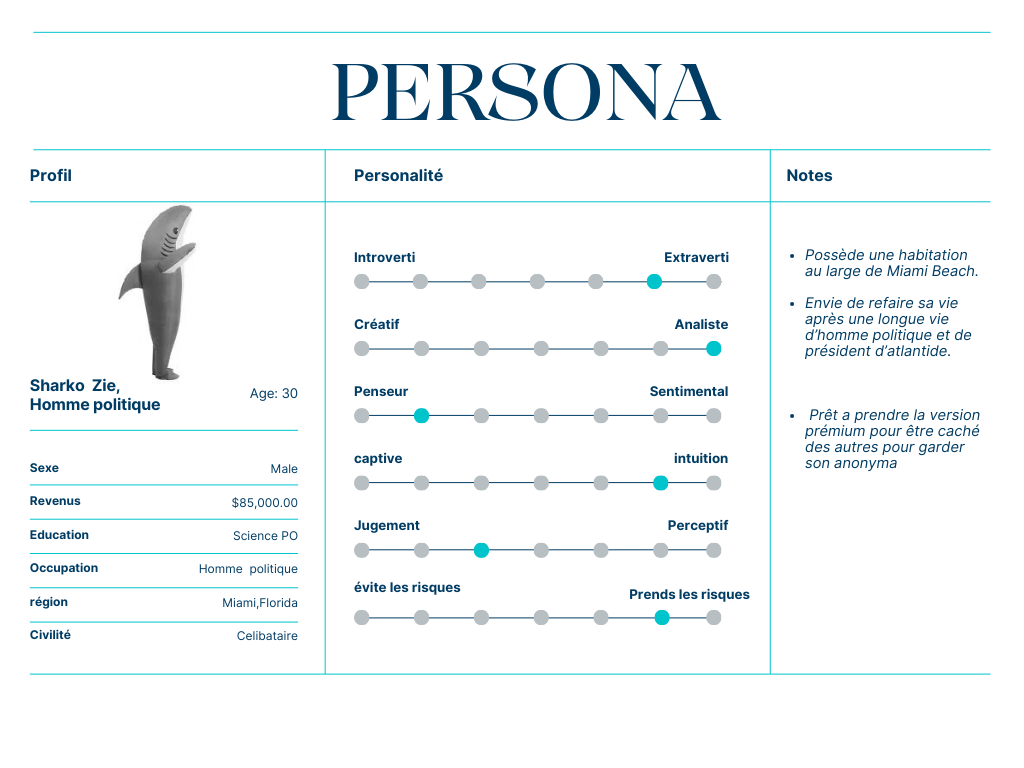
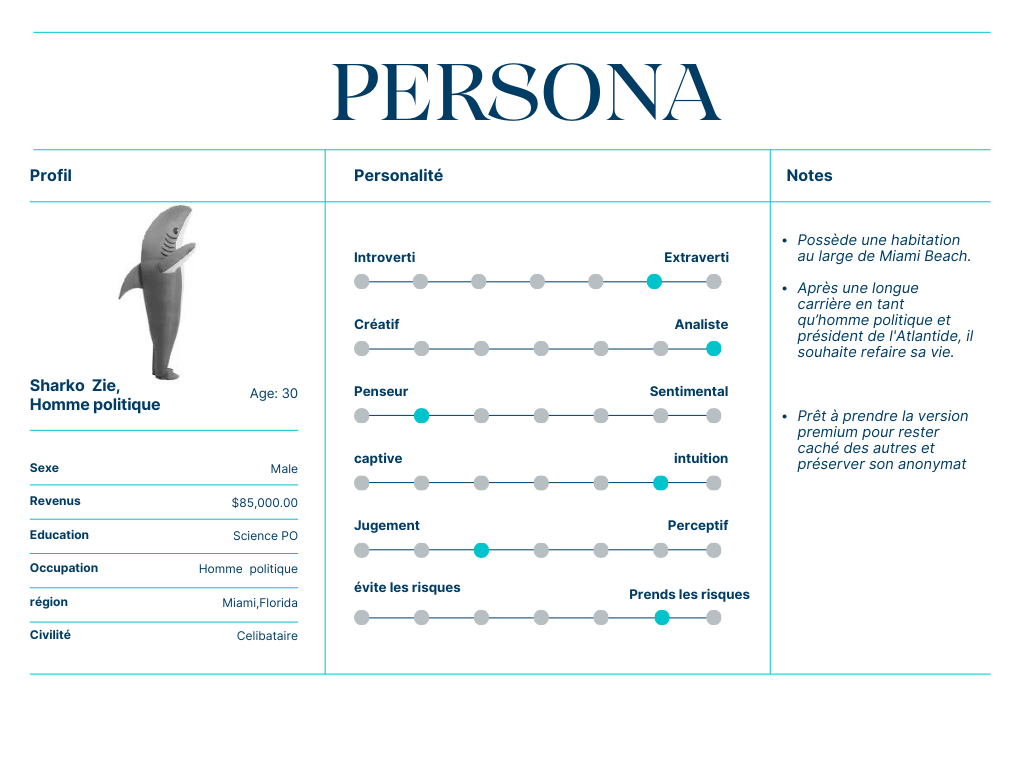
Update rapport_visu and Personna_Sharkozie.png

Changed region(s): [[0.7812, 0.3125, 0.9688, 0.4688], [0.7812, 0.5312, 0.9688, 0.625]]

diff --git a/rapports/rapport_visu_novembre/main.tex b/rapports/rapport_visu_novembre/main.tex
@@ -61,6 +61,10 @@ sur différentes attaques de requins dans le monde, données qui alimenteront bi
 
 
 \section{Personas}
+Voici différents Personas qui sont des potentile client de notre application
+\includegraphics[width=0.5\textwidth]{photo/Personna_Sharkozie.png}
+
+
 
 
 \section{Base-fidélité}
